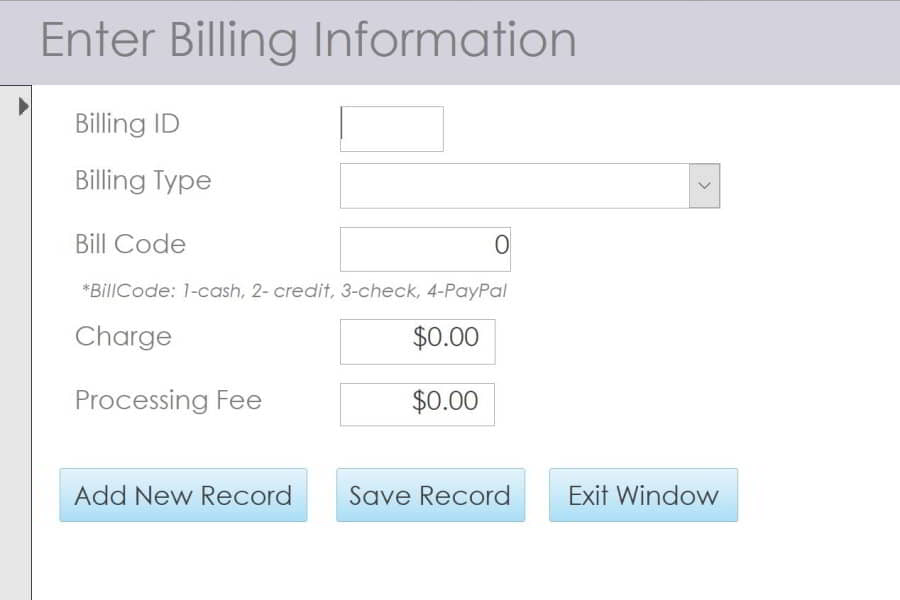
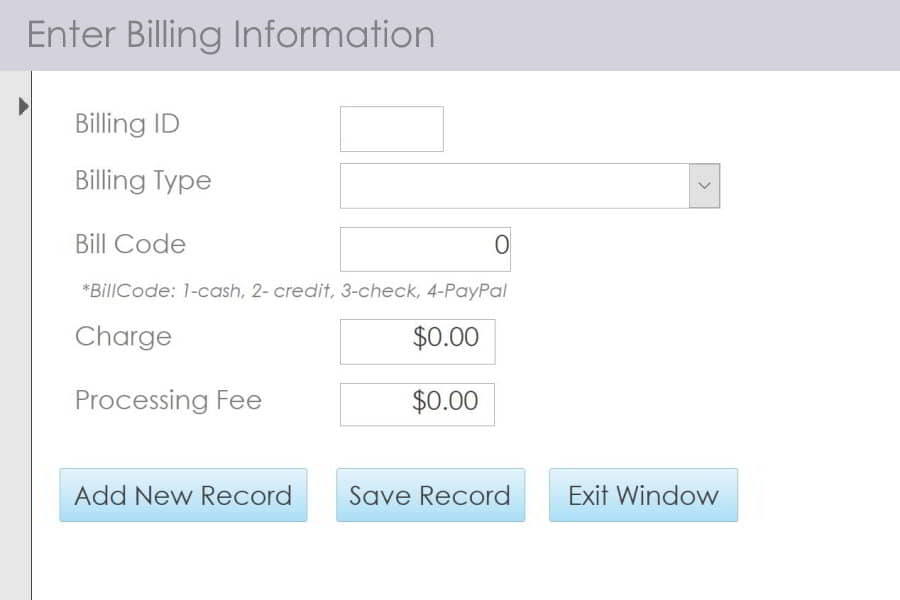
wrapping up MS Access, looks nice...hopefully the ul holds up between browsers.   -finishing touches on access.md   -resized images for optimization   -added disclaimer   -added buttons for SOW and ERD

Changed region(s): [[0.0, 0.03, 1.0, 0.15]]

diff --git a/website/portfolio-site/themes/initio/layouts/access/list.html b/website/portfolio-site/themes/initio/layouts/access/list.html
@@ -34,7 +34,9 @@
 			
 				<!-- buttons -->
 				<div class="flex flex2" >
-					<p class="text-center"><a href="{{ .Params.code_url }}" target="blank" class="btn btn-action content-button">VEIW REPO</a></p>
+					<p class="text-center"><a href="{{ .Params.sow_url }}" target="blank" class="btn btn-action content-button">SOW</a></p>
+					<p class="text-center"><a href="{{ .Params.repo_url }}" target="blank" class="btn btn-action content-button">REPO</a></p>
+					<p class="text-center"><a href="{{ .Params.erd_url }}" target="blank" class="btn btn-action content-button">ERD</a></p>
 				</div>
 			</div>
 			<!-- END TEMPLATE -->
@@ -58,11 +60,11 @@
 			<!-- disclaimer -->
 			<div>
 				<h5 class="disclaimer">
-					* All contact information, names, figures, and locations were fabricated for example purposes only while creating this project
+					* All contact information, names, figures, and locations were fabricated specifically for example purposes while creating this project
 				<h5>
 			</div>
 			<!-- screenshots -->
-			
+
 			{{ end }}
 		</div>
 	</div>	<!-- /container -->

diff --git a/website/portfolio-site/content/repos/access/access.md b/website/portfolio-site/content/repos/access/access.md
@@ -10,9 +10,9 @@ image3 = "billing.jpg"
 image4 = "clientinfo.jpg"
 image5 = "mileage.jpg"
 image6 = "sales_report.jpg"
-# layout = "list"
 
-code_url = "https://github.com/byron42/my-portfolio/blob/master/c%23/rock-paper-scissor/Rock%2C%20Paper%2C%20Scissors/Form1.cs"
-repo_url = "https://github.com/byron42/my-portfolio/tree/master/c%23/rock-paper-scissor"
+sow_url = "https://github.com/byron42/my-portfolio/blob/master/access/StatementOfWork.pdf"
+repo_url = "https://github.com/byron42/my-portfolio/tree/master/access"
+erd_url = "https://github.com/byron42/my-portfolio/blob/master/access/ERD.pdf"
 +++
-A semester long project requiring a statement of work **(SOW)**, an entity relationship diagram **(ERD)**, and the creation of a Microsoft Access DB based on these things (framed with my wife's photography business).  
+A semester long project requiring a statement of work (SOW), a continuously refined entity relationship diagram (ERD), the creation of a Microsoft Access DB revolving around them, all framed by my wife's photography business needs.  

diff --git a/website/portfolio-site/content/repos/_index.md b/website/portfolio-site/content/repos/_index.md
@@ -3,4 +3,3 @@ title = "Repositories"
 type = "repos"
 weight = 1
 +++
-
